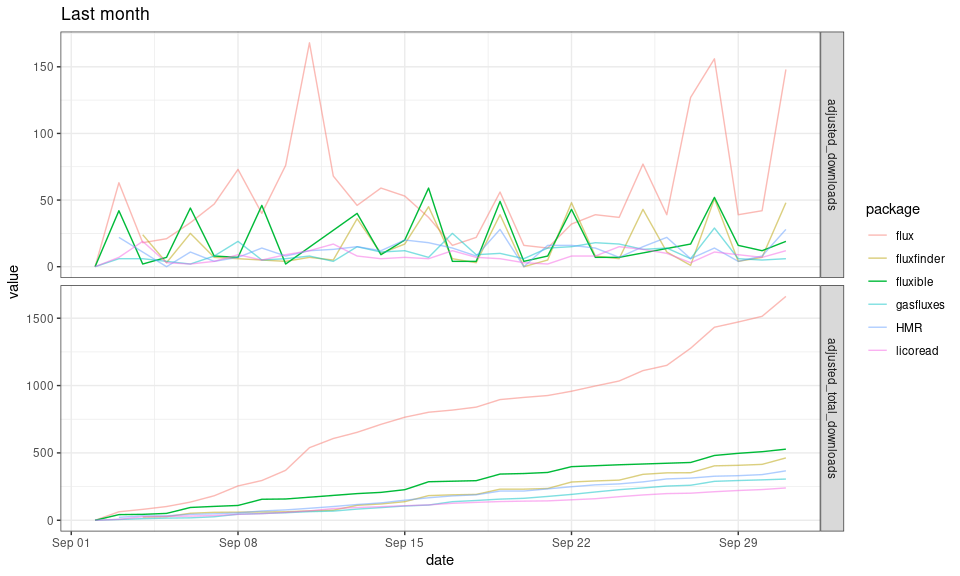
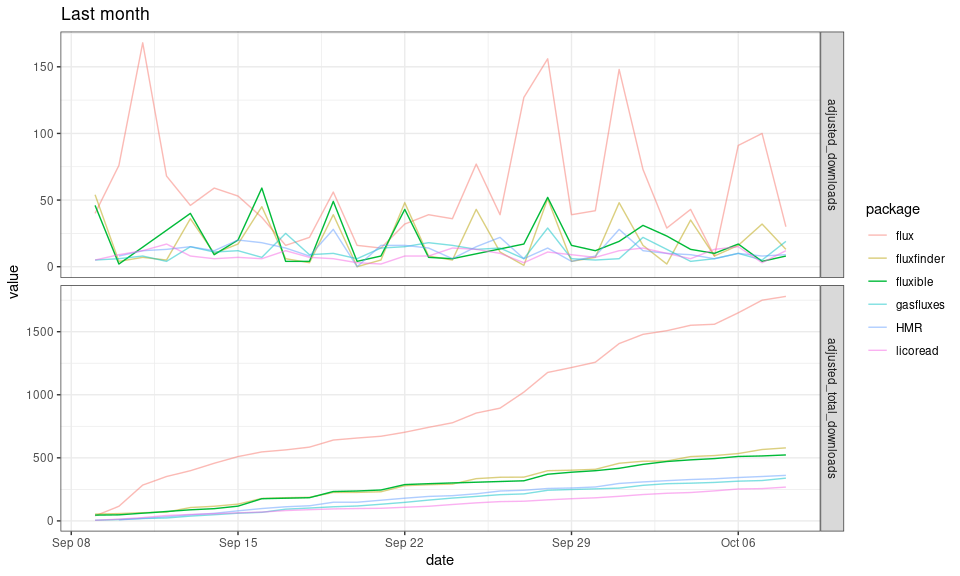
added rollmean

diff --git a/download_logs.md b/download_logs.md
@@ -1,6 +1,6 @@
 # fluxible download logs
 Joseph Gaudard
-2025-10-03
+2025-10-10
 
 <div id="fig-lastmonth">
 
@@ -10,6 +10,9 @@ Figure 1: Number of downloads for the last month.
 
 </div>
 
+    Warning: Removed 2 rows containing missing values or values outside the scale range
+    (`geom_line()`).
+
 <div id="fig-paper">
 
 ![](download_logs_files/figure-commonmark/fig-paper-1.png)
@@ -17,6 +20,9 @@ Figure 1: Number of downloads for the last month.
 Figure 2: Number of downloads since paper was published.
 
 </div>
+
+    Warning: Removed 5 rows containing missing values or values outside the scale range
+    (`geom_line()`).
 
 <div id="fig-overall">
 
